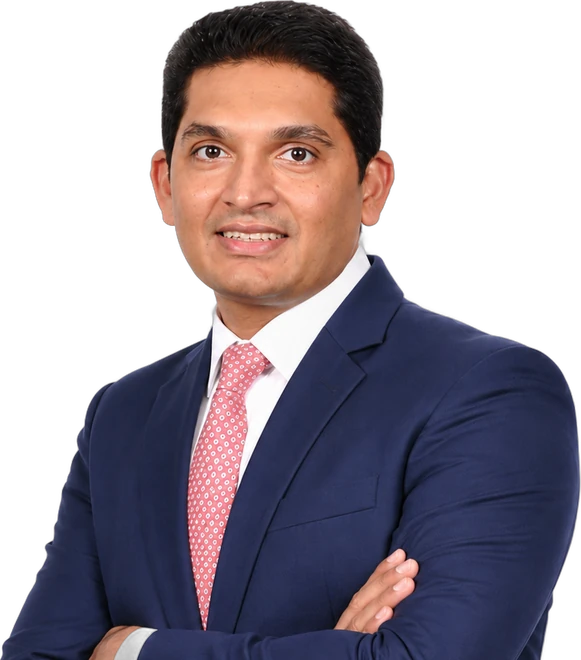
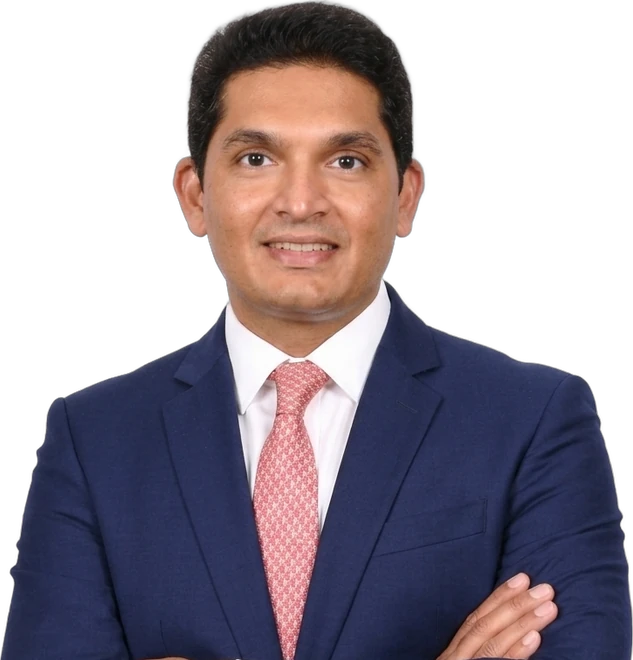
List your property field updates, About Us journey redesign, leader photos, UI fixes

diff --git a/anarock/src/app/list-your-property/page.js b/anarock/src/app/list-your-property/page.js
@@ -41,11 +41,11 @@ const initialForm = {
     phone: "",
     email: "",
     area: "",
+    floorPlate: "",
+    rent: "",
+    achievableRent: "",
     seats: "",
-    rentMin: "",
-    rentMax: "",
-    seatPriceMin: "",
-    seatPriceMax: "",
+    seatPrice: "",
     description: "",
 };
 
@@ -53,12 +53,12 @@ const propertyTypes = [
     {
         value: "conventional",
         label: "Conventional Office",
-        description: "Office spaces, commercial buildings & managed offices",
+        description: "Office spaces & commercial buildings",
     },
     {
         value: "coworking",
         label: "Coworking",
-        description: "Coworking spaces, flexible offices & managed workspaces",
+        description: "Coworking spaces, flexible & managed offices",
     },
 ];
 
@@ -800,7 +800,7 @@ function ContactDetails({ form, errors, updateField, phoneCountry, setPhoneCount
             description="We'll use these details only for property verification and listing communication."
             icon={<UserRound size={21} />}
         >
-            <div className="grid gap-5 md:grid-cols-2">
+            <div className="grid gap-5 md:grid-cols-2 lg:grid-cols-3">
                 <Field
                     label="Contact name"
                     required
@@ -833,12 +833,14 @@ function ContactDetails({ form, errors, updateField, phoneCountry, setPhoneCount
                     error={errors.email}
                     onChange={(value) => updateField("email", value)}
                 />
+                {/* Company name hidden for now.
                 <Field
                     label="Company name"
                     value={form.companyName}
                     placeholder="Optional"
                     onChange={(value) => updateField("companyName", value)}
                 />
+                */}
             </div>
             <div className="mt-8 rounded-[24px] border border-[#A054A0]/10 bg-[#A054A0]/[0.035] p-5">
                 <div className="flex gap-3">
@@ -846,7 +848,7 @@ function ContactDetails({ form, errors, updateField, phoneCountry, setPhoneCount
                     <div>
                         <p className="text-sm font-semibold">Your information is secure</p>
                         <p className="mt-1 text-xs leading-5 text-black/50">
-                            Your contact details will not be displayed publicly. They are used for verification and communication regarding your listing.
+                            Your contact details will be used for verification and communication regarding your listing.
                         </p>
                     </div>
                 </div>
@@ -1002,25 +1004,18 @@ function ListingForm({
                                     onChange={(value) => updateField("seats", value)}
                                 />
                                 <Field
-                                    label="Minimum seat price / month"
+                                    label="Per seat cost"
                                     type="number"
-                                    value={form.seatPriceMin}
-                                    error={errors.seatPriceMin}
+                                    value={form.seatPrice}
                                     placeholder={`${currencySymbol}0`}
-                                    onChange={(value) => updateField("seatPriceMin", value)}
-                                />
-                                <Field
-                                    label="Maximum seat price / month"
-                                    type="number"
-                                    value={form.seatPriceMax}
-                                    placeholder={`${currencySymbol}0`}
-                                    onChange={(value) => updateField("seatPriceMax", value)}
+                                    suffix="/ month"
+                                    onChange={(value) => updateField("seatPrice", value)}
                                 />
                             </>
                         ) : (
                             <>
                                 <Field
-                                    label="Area"
+                                    label="Leasable area"
                                     type="number"
                                     value={form.area}
                                     error={errors.area}
@@ -1029,19 +1024,28 @@ function ListingForm({
                                     onChange={(value) => updateField("area", value)}
                                 />
                                 <Field
-                                    label="Minimum rent / month"
+                                    label="Floor plate"
                                     type="number"
-                                    value={form.rentMin}
-                                    error={errors.rentMin}
-                                    placeholder={`${currencySymbol}0`}
-                                    onChange={(value) => updateField("rentMin", value)}
+                                    value={form.floorPlate}
+                                    placeholder="e.g. 20000"
+                                    suffix="sq ft"
+                                    onChange={(value) => updateField("floorPlate", value)}
                                 />
                                 <Field
-                                    label="Maximum rent / month"
+                                    label="Rent"
                                     type="number"
-                                    value={form.rentMax}
+                                    value={form.rent}
                                     placeholder={`${currencySymbol}0`}
-                                    onChange={(value) => updateField("rentMax", value)}
+                                    suffix="/ sq ft / month"
+                                    onChange={(value) => updateField("rent", value)}
+                                />
+                                <Field
+                                    label="Achievable rent"
+                                    type="number"
+                                    value={form.achievableRent}
+                                    placeholder={`${currencySymbol}0`}
+                                    suffix="/ sq ft / month"
+                                    onChange={(value) => updateField("achievableRent", value)}
                                 />
                             </>
                         )}
@@ -1108,8 +1112,6 @@ function ReviewSubmission({
 }) {
     const isAssistance = method === "callback";
     const price = (value) => (value ? `${currencySymbol}${value}` : "—");
-    const range = (min, max) =>
-        min || max ? `${price(min)} – ${price(max)}` : "—";
     return (
         <PageShell
             eyebrow={isAssistance ? "04 / Review" : "05 / Review"}
@@ -1132,26 +1134,19 @@ function ReviewSubmission({
                     <ReviewRow label={isCoworking ? "Operator" : "Developer"} value={form.developer} />
                     {!isAssistance && (
                         <>
-                            <ReviewRow
-                                label={isCoworking ? "Seats" : "Area"}
-                                value={
-                                    isCoworking
-                                        ? form.seats
-                                            ? `${form.seats} seats`
-                                            : "—"
-                                        : form.area
-                                            ? `${form.area} sq ft`
-                                            : "—"
-                                }
-                            />
-                            <ReviewRow
-                                label={isCoworking ? "Seat price / month" : "Rent / month"}
-                                value={
-                                    isCoworking
-                                        ? range(form.seatPriceMin, form.seatPriceMax)
-                                        : range(form.rentMin, form.rentMax)
-                                }
-                            />
+                            {isCoworking ? (
+                                <>
+                                    <ReviewRow label="Seats offered" value={form.seats ? `${form.seats} seats` : "—"} />
+                                    <ReviewRow label="Per seat cost" value={form.seatPrice ? `${price(form.seatPrice)} / month` : "—"} />
+                                </>
+                            ) : (
+                                <>
+                                    <ReviewRow label="Leasable area" value={form.area ? `${form.area} sq ft` : "—"} />
+                                    <ReviewRow label="Floor plate" value={form.floorPlate ? `${form.floorPlate} sq ft` : "—"} />
+                                    <ReviewRow label="Rent" value={form.rent ? `${price(form.rent)} / sq ft / month` : "—"} />
+                                    <ReviewRow label="Achievable rent" value={form.achievableRent ? `${price(form.achievableRent)} / sq ft / month` : "—"} />
+                                </>
+                            )}
                         </>
                     )}
                 </ReviewCard>
@@ -1159,7 +1154,9 @@ function ReviewSubmission({
                     <ReviewRow label="Contact" value={form.contactName} />
                     <ReviewRow label="Phone" value={form.phone ? `${phoneDial} ${form.phone}` : ""} />
                     <ReviewRow label="Email" value={form.email} />
+                    {/* Company name hidden for now.
                     <ReviewRow label="Company" value={form.companyName} />
+                    */}
                 </ReviewCard>
                 {isAssistance && (
                     <SectionCard title="Declaration & privacy" description="Please confirm before submitting." descriptionClassName="text-[#3F3A40]">
@@ -1348,7 +1345,7 @@ function Field({
             </label>
             <div className="relative">
                 {icon && (
-                    <div className="pointer-events-none absolute left-4 top-1/2 -translate-y-1/2 text-black/35">
+                    <div className="pointer-events-none absolute left-4 top-1/2 z-10 -translate-y-1/2 text-black/40">
                         {icon}
                     </div>
                 )}
@@ -1363,8 +1360,8 @@ function Field({
                     onChange={(event) => onChange(event.target.value)}
                     className={[
                         "h-12 w-full rounded-xl border bg-white/85 px-4 text-sm outline-none shadow-[0_6px_25px_rgba(15,23,42,0.03)] backdrop-blur transition-all",
-                        icon ? "pl-11" : "",
-                        suffix ? "pr-20" : "",
+                        icon ? "pl-10" : "",
+                        suffix ? (suffix.length > 6 ? "pr-32" : "pr-20") : "",
                         error
                             ? "border-red-300 focus:border-red-400"
                             : "border-black/[0.09] focus:border-[#A054A0]/50 focus:ring-4 focus:ring-[#A054A0]/10",
@@ -1540,9 +1537,9 @@ function SelectField({ label, required, value, options, placeholder, error, load
                         disabled ? "cursor-not-allowed bg-black/[0.025] opacity-60" : "",
                     ].join(" ")}
                 >
-                    <option value="">{placeholder}</option>
+                    <option value="" className="text-black/50">{placeholder}</option>
                     {options.map((option) => (
-                        <option key={option} value={option}>
+                        <option key={option} value={option} className="text-black">
                             {option}
                         </option>
                     ))}

diff --git a/anarock/src/app/aboutus/page.js b/anarock/src/app/aboutus/page.js
@@ -274,7 +274,7 @@ function LegacyJourney() {
                             Three decades in the making
                         </h2>
                     </div>
-                    <p className="max-w-md text-sm leading-6 text-white/70 sm:text-base lg:text-right">
+                    <p className="max-w-md text-sm leading-6 text-white sm:text-base lg:text-right">
                         The leadership behind Anarock built some of India&apos;s best-known real estate firms before starting its own in 2017.
                     </p>
                 </div>
@@ -317,7 +317,7 @@ function LegacyJourney() {
                                         className="mt-3 h-7 w-auto lg:h-8"
                                     />
                                 ) : (
-                                    <p className="mt-3 text-sm leading-6 text-white/75 lg:text-[15px]">
+                                    <p className="mt-3 text-sm leading-6 text-white lg:text-[15px]">
                                         {item.name}
                                     </p>
                                 )}
@@ -352,7 +352,7 @@ function LegacyJourney() {
                                         className="mt-2.5 h-7 w-auto"
                                     />
                                 ) : (
-                                    <p className="mt-2 text-[15px] text-white/75">{item.name}</p>
+                                    <p className="mt-2 text-[15px] text-white">{item.name}</p>
                                 )}
                             </li>
                         );
@@ -405,7 +405,7 @@ function JourneyYear({ item, index, now = false }) {
                         </span>
                     )}
                 </div>
-                <p className="mt-3 text-[13px] leading-[1.6] text-[#4B464C] [&_strong]:font-semibold [&_strong]:text-black xl:text-sm">
+                <p className="mt-3 text-[13px] leading-[1.6] text-black [&_strong]:font-semibold [&_strong]:text-black xl:text-sm">
                     {item.detail}
                 </p>
                 <JourneyLogos year={item.year} className="mt-auto pt-4" />
@@ -622,7 +622,7 @@ export default function AboutUsPage() {
                                 <span className="text-[#A054A0]">Future</span>
                             </h2>
                         </div>
-                        <p className="max-w-md text-sm italic leading-6 text-[#5C565D] sm:text-base lg:text-right">
+                        <p className="max-w-md text-sm italic leading-6 text-black sm:text-base lg:text-right">
                             A journey of expansion, innovation and new opportunities
                             shaping{" "}
                             <span className="text-[#A054A0]">Anarock&apos;s evolution</span>.
@@ -675,7 +675,7 @@ export default function AboutUsPage() {
                                             </span>
                                         )}
                                     </div>
-                                    <p className="mt-2.5 text-sm leading-6 text-[#4B464C] [&_strong]:font-semibold [&_strong]:text-black">
+                                    <p className="mt-2.5 text-sm leading-6 text-black [&_strong]:font-semibold [&_strong]:text-black">
                                         {item.detail}
                                     </p>
                                     <JourneyLogos year={item.year} className="mt-3" />

diff --git a/anarock/src/app/api/list-your-property/route.js b/anarock/src/app/api/list-your-property/route.js
@@ -771,12 +771,12 @@ function buildSheetRecord({ method, form, currency, location }) {
         "Micromarket": cleanText(form.micromarket, 150),
         "Address": cleanText(form.address, 500),
         "Developer/Operator": cleanText(form.developer, 150),
-        "Area (sq ft)": isCoworking ? "" : cleanNumber(form.area),
-        "Min Rent": isCoworking ? "" : cleanNumber(form.rentMin),
-        "Max Rent": isCoworking ? "" : cleanNumber(form.rentMax),
-        "Seats": isCoworking ? cleanNumber(form.seats) : "",
-        "Min Seat Price": isCoworking ? cleanNumber(form.seatPriceMin) : "",
-        "Max Seat Price": isCoworking ? cleanNumber(form.seatPriceMax) : "",
+        "Leasable Area (sq ft)": isCoworking ? "" : cleanNumber(form.area),
+        "Floor Plate (sq ft)": isCoworking ? "" : cleanNumber(form.floorPlate),
+        "Rent": isCoworking ? "" : cleanNumber(form.rent),
+        "Achievable Rent": isCoworking ? "" : cleanNumber(form.achievableRent),
+        "Seats Offered": isCoworking ? cleanNumber(form.seats) : "",
+        "Per Seat Cost": isCoworking ? cleanNumber(form.seatPrice) : "",
         "Currency": CURRENCIES.has(currency) ? currency : "INR",
         "Description": cleanText(form.description, 2000),
         "Contact Name": cleanText(form.contactName, 100),
